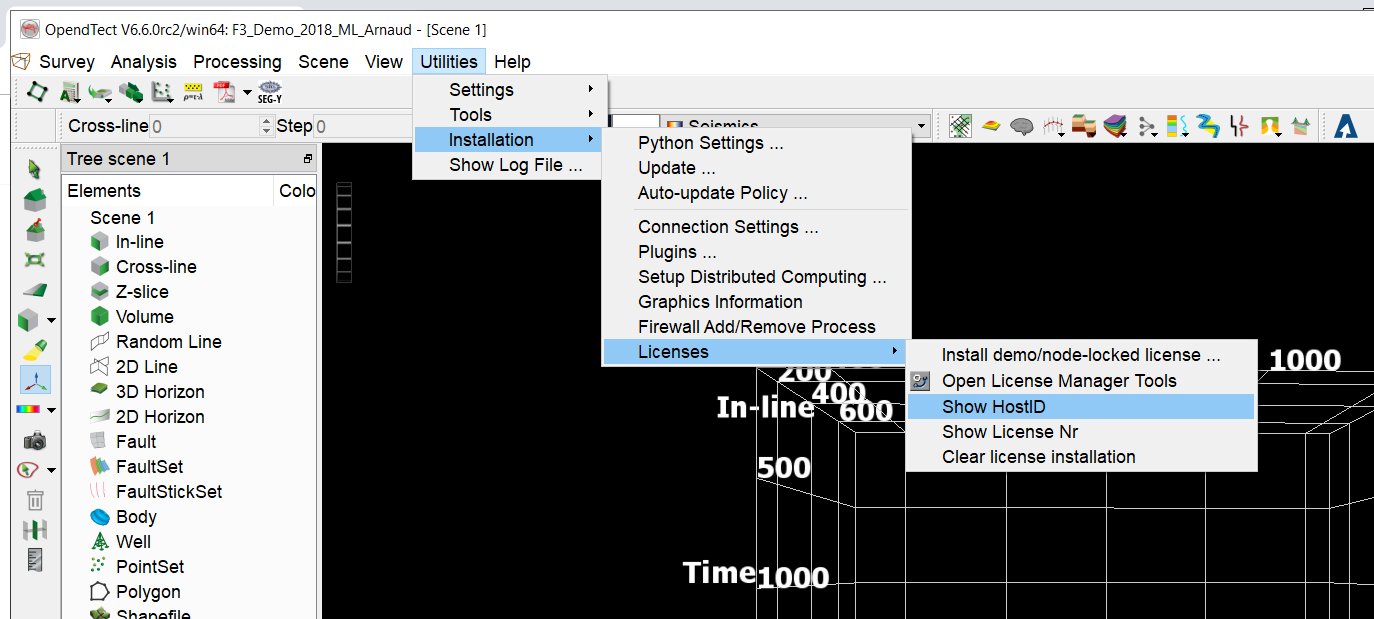
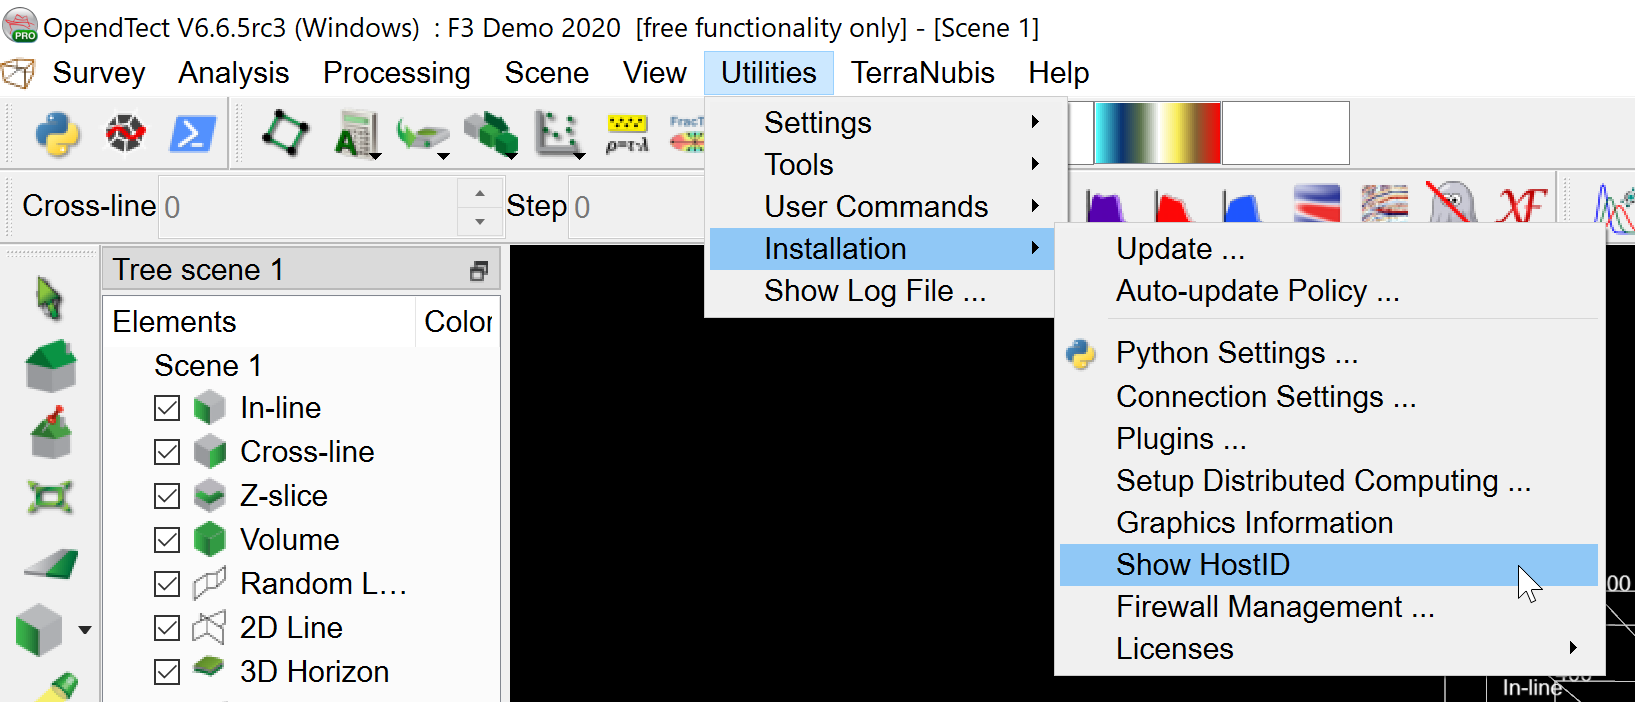
Updated AdminDoc Show HostID section

diff --git a/admindoc/Content/Installation/OpendTect/Licenses/Licensing-and-Host-IDs.htm b/admindoc/Content/Installation/OpendTect/Licenses/Licensing-and-Host-IDs.htm
@@ -20,9 +20,16 @@
             <li>If node-locked license<ul><li>Host ID</li></ul></li>
         </ul>
         <p>To discover the HostID(s):</p>
-        <ul>
-            <li>OpendTect&#160;Pro (all platforms): Utilities &gt; Installation &gt; Licenses &gt; Show HostID…<br /><MadCap:conditionalText MadCap:conditions="Default.ScreenOnly"><img src="../../../Resources/Images/opendtect-installation-licenses-show-hostid1.png" /></MadCap:conditionalText><MadCap:conditionalText MadCap:conditions="Default.PrintOnly"><img src="../../../Resources/Images/opendtect-installation-licenses-show-hostid1.png" style="width: 659px;height: 295px;" /></MadCap:conditionalText><br /><small>Figure: The menu option to show the machine's HostID.</small><br /><br /><img src="../../../Resources/Images/opendtect-installation-licenses-show-hostid2.png" /><br /><small>Figure: Showing the machine's HostID via OpendTect</small></li>
-        </ul>
+        <blockquote>
+            <p>
+                <img src="../../../Resources/Images/opendtect-installation-licenses-show-hostid1.png" class="General_Image" style="width: 771px;height: 330px;" />
+            </p>
+            <p>This will give a result similar to the following window:</p>
+            <p>
+                <img src="../../../Resources/Images/opendtect-installation-licenses-show-hostid2.png" style="width: 407px;height: 250px;" class="General_Image" />
+            </p>
+            <p>Use the clipboard icon to copy the information displayed in the window into text format for pasting into an email or document.</p>
+        </blockquote>
         <p><b>Note:</b> Licenses &gt; Show HostID… does not appear under the Utilities &gt; Installation… options in the GPL version. You will have to install OpendTect Pro to access this utility.</p>
         <p>For additional information (including alternate methods of accessing the HostID), please refer to the <MadCap:conditionalText MadCap:conditions="Default.ScreenOnly"><a href="../../../Appendix/AppendixA-FlexNet-Licenses-Explained.htm">Appendix FlexNet Licenses Explained</a></MadCap:conditionalText><MadCap:conditionalText MadCap:conditions="Default.PrintOnly"><a href="#Appendix A - FlexNet Licenses Explained" target="_parent">Appendix FlexNet Licenses Explained</a></MadCap:conditionalText>.</p>
     </body>
